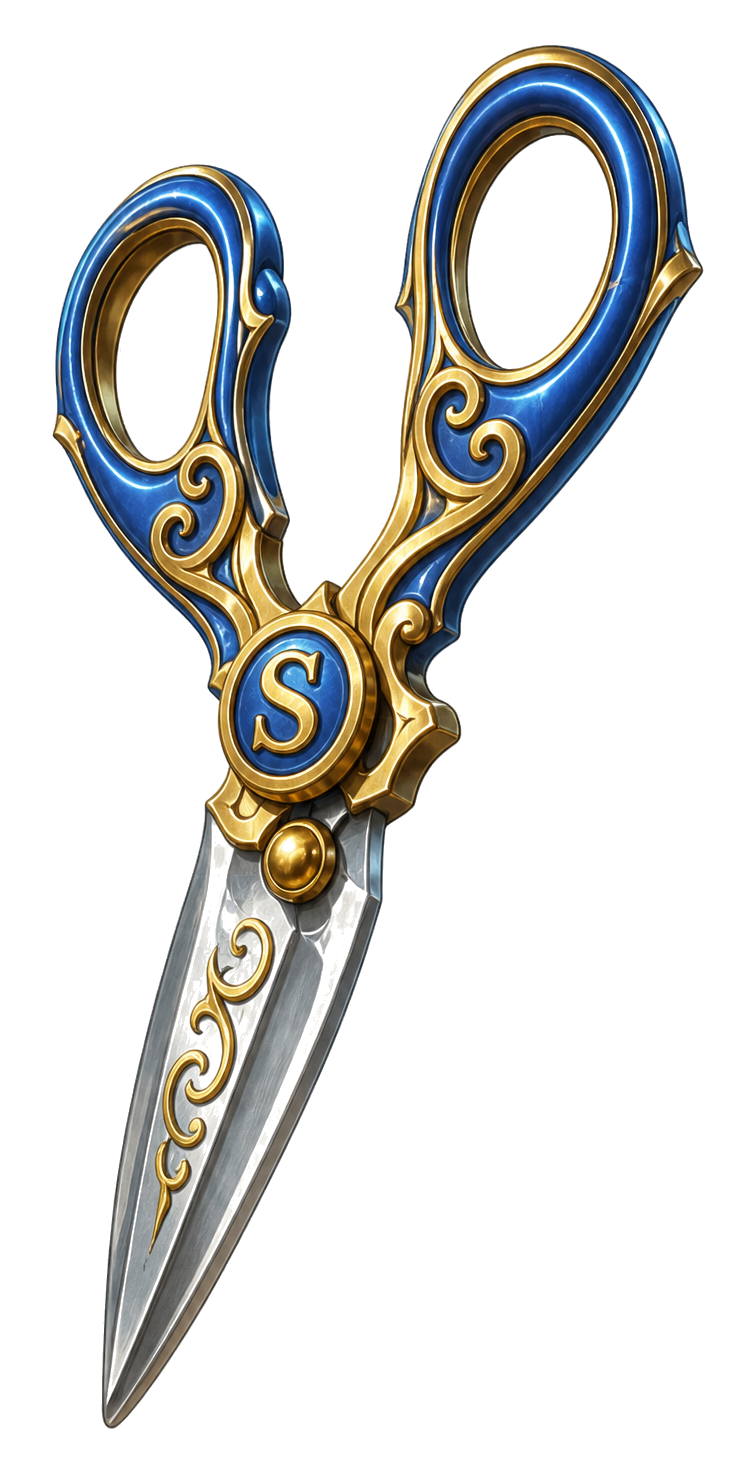
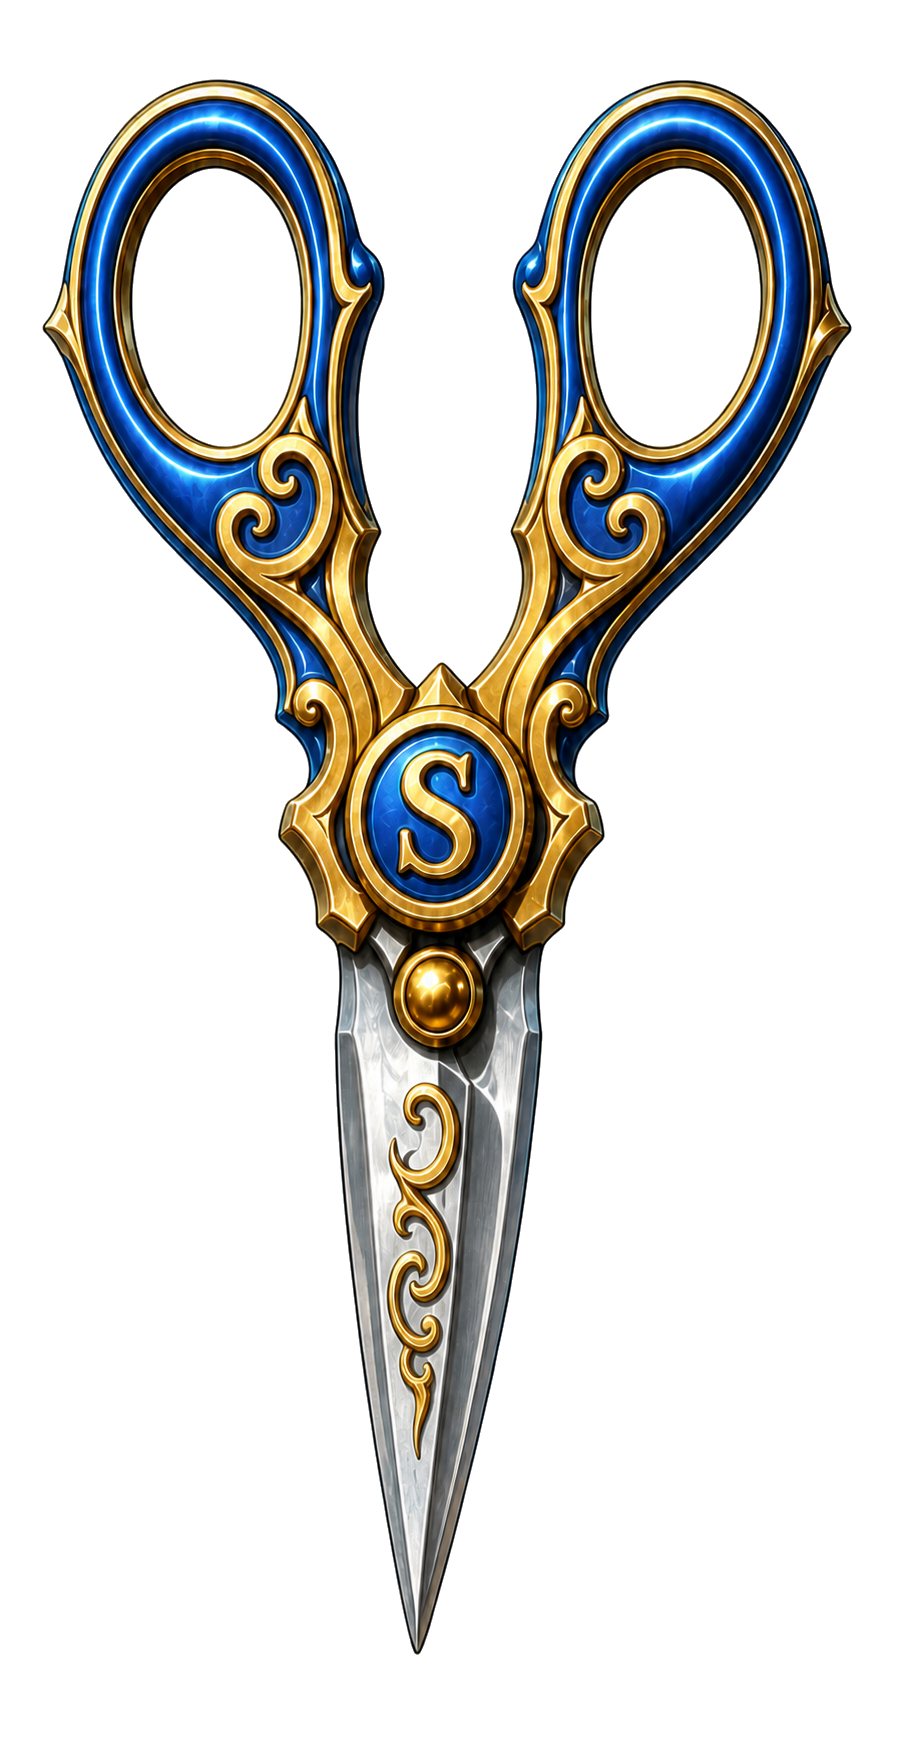
Polish controls and scissors asset

diff --git a/index.html b/index.html
@@ -81,6 +81,23 @@
     .top-actions button:hover, .link-button:hover { background: rgba(255,255,255,.16); transform: translateY(-1px); }
     .top-actions .new-button { color: var(--navy); border-color: #e8b15d; background: #e8b15d; font-weight: 800; }
     .top-actions .new-button:hover { background: #f3c475; }
+    .top-actions .icon-button {
+      width: 38px;
+      height: 38px;
+      padding: 0;
+      border: 0;
+      border-radius: 0;
+      color: #f4f7fb;
+      background: transparent;
+      font-size: 24px;
+      line-height: 1;
+    }
+    .top-actions .icon-button:hover {
+      color: #edb45a;
+      background: transparent;
+      transform: translateY(-1px);
+    }
+    .top-actions .icon-button span { display: block; }
 
     .game-layout {
       width: min(1420px, 100%);
@@ -493,7 +510,7 @@
         extra.variant = variantForPiece(owner, extraType, 8);
       }
       const flag = piecesOf(owner).find(piece => piece.type === "flag");
-      const backRow = ownRows(owner)[0];
+      const backRow = owner === 1 ? ownRows(owner)[1] : ownRows(owner)[0];
       const flagCol = Math.floor(Math.random() * BOARD_COLS);
       flag.row = backRow;
       flag.col = flagCol;
@@ -726,6 +743,20 @@
     function computerMoveScore(move) {
       const target = pieceAt(move.row, move.col);
       let score = Math.random() * 18;
+      if (move.piece.type === "flag") {
+        const enemyMobilePieces = alivePiecesOf(1).filter(piece => piece.type !== "flag");
+        const isAdjacent = piece => Math.abs(piece.row - move.piece.row) + Math.abs(piece.col - move.piece.col) === 1;
+        const destinationThreatened = enemyMobilePieces.some(piece => Math.abs(piece.row - move.row) + Math.abs(piece.col - move.col) === 1);
+        const currentlyThreatened = enemyMobilePieces.some(isAdjacent);
+        const nearestEnemyDistance = enemyMobilePieces.length
+          ? Math.min(...enemyMobilePieces.map(piece => Math.abs(piece.row - move.row) + Math.abs(piece.col - move.col)))
+          : BOARD_ROWS + BOARD_COLS;
+        if (currentlyThreatened) score += 780;
+        if (destinationThreatened) score -= 620;
+        score += Math.min(nearestEnemyDistance, 6) * 55;
+        score += Math.random() * 160;
+        return score;
+      }
       if (target) {
         if (target.revealedTo[state.aiPlayer]) {
           if (target.type === "flag") return 10000;
@@ -922,7 +953,7 @@
       app.innerHTML = `
         <header class="topbar">
           <div class="brand"><div class="brand-mark" aria-hidden="true"><span>RPS</span></div><div class="brand-copy"><p class="eyebrow">Pass &amp; play tactics</p><h1>Rock Paper Scissors <span>Stratego</span></h1></div></div>
-          <nav class="top-actions" aria-label="Game controls"><button class="rules-button" data-action="rules">Rules</button><button class="new-button" data-action="new">New game</button></nav>
+          <nav class="top-actions" aria-label="Game controls"><button class="icon-button rules-button" data-action="rules" aria-label="Rules" title="Rules"><span aria-hidden="true">?</span></button><button class="icon-button new-button" data-action="new" aria-label="New game" title="New game"><span aria-hidden="true">↻</span></button></nav>
         </header>
         <main class="game-layout">
           <section class="board-column" aria-label="Game board"><div class="board-frame"><div class="board ${state.phase === "combat" ? "combat-board" : ""}" role="grid" aria-label="4 by 6 Rock Paper Scissors Stratego board">${renderBoard(viewer, state.phase === "combat" ? "combat-board" : "board")}${state.phase === "combat" && state.gameMode === "computer" ? renderBoardBurst() : ""}</div></div></section>
